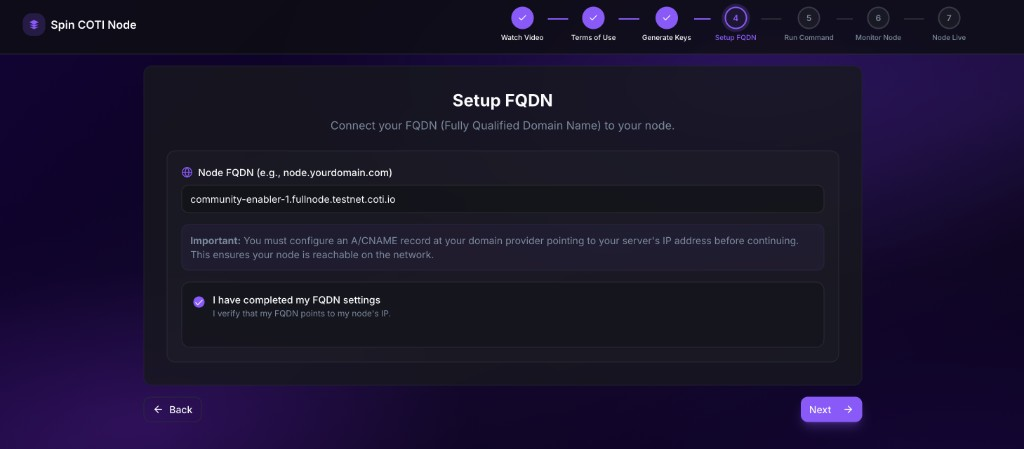
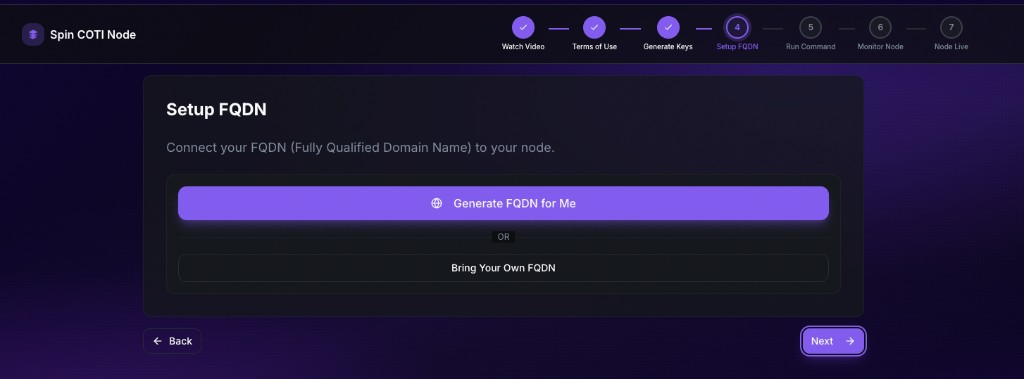
Add new images and enhance FQDN setup documentation
- Introduced two new images for the FQDN setup process: one for generating a COTI-managed hostname and another for bringing your own FQDN.
- Updated the features and installation documentation to clarify the FQDN setup options, including detailed instructions for both generating a hostname and using a custom domain.
- Improved descriptions in the UI guide to reflect the new setup steps and enhance user understanding of the installation wizard flow.

diff --git a/node-ecosystem/ui-guide/README.md b/node-ecosystem/ui-guide/README.md
@@ -65,7 +65,7 @@ Two cards:
 
 ## Spin up a Node (`/setup`)
 
-The installation wizard is a 7-step flow. The top of the page shows a **SetupBar** with step labels; the main panel swaps content per step. The primary **Next** button advances; **Back** goes to the previous step.
+The installation wizard is a 7-step flow. The header shows **Spin COTI Node** and a horizontal **SetupBar** with short step labels — **Watch Video**, **Terms of Use**, **Generate Keys**, **Setup FQDN**, **Run Command**, **Monitor Node**, **Node Live** — aligned with the sections below. The main panel swaps content per step. The primary **Next** button advances; **Back** goes to the previous step.
 
 ### Step 1 — Watch the setup video
 
@@ -96,15 +96,25 @@ The private key is the identity of your node and the wallet that will receive th
 
 ### Step 4 — Setup FQDN
 
-<figure><img src="../../.gitbook/assets/node-ecosystem-setup-4.png" alt="Setup step 4 with the Node FQDN input, an A/CNAME instruction, and an I have completed my FQDN settings checkbox"><figcaption><p>Step 4: the FQDN that will front your node's RPC.</p></figcaption></figure>
+<figure><img src="../../.gitbook/assets/node-ecosystem-setup-4.png" alt="Setup FQDN step with Generate FQDN for Me and Bring your own FQDN choices"><figcaption><p>Step 4: choose a COTI-generated hostname or bring your own FQDN.</p></figcaption></figure>
 
-Enter the public hostname that will point to your node (for example `node1.example.com`). The checkbox **"I have completed my FQDN settings"** triggers a live DNS lookup via `dns.google.com/resolve`:
+The panel title is **Setup FQDN**, with the line **Connect your FQDN (Fully Qualified Domain Name) to your node.** You pick how the public hostname is supplied:
 
-* Success — the box is checked and you can proceed.
-* Failure — an inline error explains that the domain did not resolve; fix the A/CNAME record at your DNS provider and retry.
+* **Generate FQDN for Me** — the default path for the **COTI-managed hostname** (tunnel / **`--with-frp`** install). You do not create DNS at your registrar; the one-liner and edge routing are described in [**Wizard tunnel**](../installation-wizard-tunnel.md). When you click it, the wizard allocates the name and updates the same step: a green **FQDN generated successfully!** banner appears, and a read-only **Node FQDN** field shows the assigned hostname (for example a `*.fullnode.<network>.coti.network`-style name on testnet — the exact zone depends on the environment).
+
+<figure><img src="../../.gitbook/assets/node-ecosystem-setup-4-generated-fqdn.png" alt="Setup FQDN after generation: green success banner and Node FQDN read-only field"><figcaption><p>After <strong>Generate FQDN for Me</strong>: success confirmation and the assigned hostname before <strong>Next</strong>.</p></figcaption></figure>
+
+* **Bring your own FQDN** — for a hostname **you** control. The wizard shows a **Node FQDN** text field (label includes an example such as `node.yourdomain.com`, placeholder **Enter your FQDN.**). An **Important** callout reminds you to configure an **A or CNAME** record at your DNS provider pointing to your server’s public IP **before** you continue, so the name is reachable on the network. Tick **"I have completed my FQDN settings"** (with the line *I verify that my FQDN points to my node's IP.*) to run a live DNS lookup via `dns.google.com/resolve`:
+
+  * Success — you can proceed with **Next**.
+  * Failure — an inline error explains that the domain did not resolve; fix the record at your registrar and retry.
+
+  **← Back to Generation.** returns to the choice screen if you want **Generate FQDN for Me** instead. This path matches **Nginx + TLS** on your server — see [**Own domain (Nginx + TLS)**](../installation-own-domain.md).
+
+<figure><img src="../../.gitbook/assets/node-ecosystem-setup-4-own-fqdn.png" alt="Bring your own FQDN: Node FQDN input, A or CNAME notice, verification checkbox, and Back to Generation link"><figcaption><p><strong>Bring your own FQDN</strong>: enter your hostname, confirm DNS, or go back to the generated-FQDN path.</p></figcaption></figure>
 
 {% hint style="warning" %}
-**This FQDN is the address the ecosystem will use to reach your node's JSON-RPC for uptime monitoring.** Requirements depend on install mode: **own domain + Nginx** needs a live DNS record to your server and reachable **80/443** — see [**Own domain (Nginx + TLS)**](../installation-own-domain.md). **COTI tunnel** (`--with-frp`) uses the COTI-assigned hostname and edge TLS — see [**Wizard tunnel**](../installation-wizard-tunnel.md). Overview: [**Installation**](../installation.md). Without a reachable public RPC name your node cannot earn rewards.
+**This FQDN is the address the ecosystem will use to reach your node's JSON-RPC for uptime monitoring.** **Own domain + Nginx** needs a live DNS record to your server and reachable **80/443**. **COTI tunnel** (`--with-frp`) uses the COTI-assigned hostname and edge TLS. Overview: [**Installation**](../installation.md). Without a reachable public RPC name your node cannot earn rewards.
 {% endhint %}
 
 ### Step 5 — Run the command

diff --git a/node-ecosystem/installation-wizard-tunnel.md b/node-ecosystem/installation-wizard-tunnel.md
@@ -1,6 +1,6 @@
 # Wizard tunnel (COTI subdomain + `--with-frp`)
 
-This is the **simplest** wizard path: you complete the [**UI guide**](ui-guide/README.md), get a **COTI-assigned hostname** (for example under `fullnode.<network>.coti.io`), generate a key, and run the installer with **`--with-frp`**.
+This is the **simplest** wizard path: on **Setup FQDN**, click **Generate FQDN for Me**. The wizard shows a success message and the **Node FQDN** value to use in the installer — a **COTI-assigned hostname** under the network’s managed zone (for example `*.fullnode.<network>.coti.io` or `*.fullnode.<network>.coti.network`, depending on environment). Then run the installer with **`--with-frp`**.
 
 ← Back to [**Installation overview**](installation.md) · Related: [**Own domain (Nginx)**](installation-own-domain.md) · [**Manual full node setup**](manual-full-node.md)
 
@@ -18,7 +18,7 @@ The installer enables the **FRPC** Compose profile, keeps **Nginx + Let’s Encr
 ## Prerequisites
 
 1. **Server** meeting [**Server requirements**](server-requirements.md) (Ubuntu 24.04 LTS, disk, RAM), with **root access**.
-2. The **FQDN** string issued by the wizard (`*.fullnode.<network>.coti.io`-style).
+2. The **FQDN** string shown in the wizard after generation (same value the one-liner expects; hostname pattern is network-specific).
 3. **Node private key** (64 hex chars) from the wizard or your own.
 
 ## One-line command

diff --git a/node-ecosystem/features.md b/node-ecosystem/features.md
@@ -7,7 +7,7 @@ The COTI Node Ecosystem packages node operation into a small number of high-leve
 A step-by-step wizard at **`/setup`** takes an operator from a fresh Ubuntu server to a **running COTI full node** with **public JSON-RPC** (either **HTTPS on your host** with your own domain, or **via the COTI tunnel** with a COTI-assigned hostname).
 
 * Generates (or accepts) a node private key locally — the key never leaves the browser.
-* Validates the node's **FQDN** via a live DNS lookup before continuing.
+* On **Setup FQDN**, offers **Generate FQDN for Me** (success banner and read-only **Node FQDN**) or **Bring your own FQDN** (hostname field, A/CNAME reminder, verification checkbox, and **Back to Generation**); for BYO, validates the hostname via a live DNS lookup before continuing.
 * Produces a single-line installer command, tailored to the node's key and hostname, that the operator runs as root on the target server (see [**Installation**](installation.md) — [**Wizard tunnel**](installation-wizard-tunnel.md) or [**Own domain**](installation-own-domain.md)).
 * Watches the peer-discovery network and advances automatically once the node is seen by peers.
 

diff --git a/node-ecosystem/installation-own-domain.md b/node-ecosystem/installation-own-domain.md
@@ -1,6 +1,6 @@
 # Own domain (Nginx + Let’s Encrypt + `--nginx`)
 
-Use this flow when you **own a DNS name** and want **HTTPS on your server** via **Nginx** and **Let’s Encrypt**. The wizard’s command includes **`--nginx`**.
+Use this flow when you **own a DNS name** and want **HTTPS on your server** via **Nginx** and **Let’s Encrypt**. The wizard’s command includes **`--nginx`**. In **`/setup`**, on **Setup FQDN**, choose **Bring your own FQDN**, enter your hostname in **Node FQDN**, configure **A or CNAME** at your provider as the in-wizard notice describes, then confirm with **I have completed my FQDN settings** before **Next**.
 
 ← Back to [**Installation overview**](installation.md) · Related: [**Wizard tunnel**](installation-wizard-tunnel.md) · [**Manual full node setup**](manual-full-node.md)
 